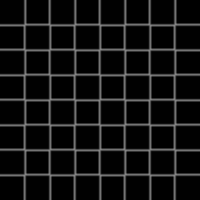
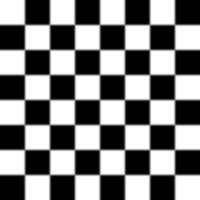
fix: wrong image for checkerboard

diff --git a/create_checkerboard.py b/create_checkerboard.py
@@ -1,0 +1,40 @@
+# Script to create a proper checkerboard image for camera calibration
+import cv2
+import numpy as np
+
+def create_checkerboard_image():
+    """
+    Create a proper checkerboard image suitable for camera calibration.
+    """
+    # Parameters for checkerboard
+    board_width = 8   # Number of internal corners horizontally
+    board_height = 6  # Number of internal corners vertically
+    square_size = 50  # Size of each square in pixels
+    
+    # Calculate image dimensions
+    img_width = (board_width + 1) * square_size
+    img_height = (board_height + 1) * square_size
+    
+    # Create the checkerboard image
+    checkerboard = np.zeros((img_height, img_width), dtype=np.uint8)
+    
+    # Fill the checkerboard pattern
+    for i in range(board_height + 1):
+        for j in range(board_width + 1):
+            if (i + j) % 2 == 0:
+                # White square
+                y_start = i * square_size
+                y_end = (i + 1) * square_size
+                x_start = j * square_size
+                x_end = (j + 1) * square_size
+                checkerboard[y_start:y_end, x_start:x_end] = 255
+    
+    return checkerboard
+
+if __name__ == "__main__":
+    # Create and save the checkerboard
+    checkerboard_img = create_checkerboard_image()
+    cv2.imwrite("checkerboard.png", checkerboard_img)
+    print("Checkerboard image created and saved as 'checkerboard.png'")
+    print(f"Image dimensions: {checkerboard_img.shape}")
+    print(f"Pattern size: 8x6 internal corners")

diff --git a/02_edge/edge.py b/02_edge/edge.py
@@ -89,7 +89,7 @@ def main():
     standard_images = [
         ("cameraman", data.camera()),
         ("coins", data.coins()),
-        ("checkerboard", (data.checkerboard() * 255).astype(np.uint8)),
+        ("checkerboard", data.checkerboard() * 255),
         ("astronaut", cv2.cvtColor(data.astronaut(), cv2.COLOR_RGB2GRAY))
     ]
 

diff --git a/01_filtering/filtering.py b/01_filtering/filtering.py
@@ -106,7 +106,7 @@ def main():
     standard_images = [
         ("cameraman", data.camera()),
         ("coins", data.coins()),
-        ("checkerboard", (data.checkerboard() * 255).astype(np.uint8)),
+        ("checkerboard", data.checkerboard()),
         ("astronaut", cv2.cvtColor(data.astronaut(), cv2.COLOR_RGB2GRAY))
     ]
 

diff --git a/03_featurepoints/featurepoints.py b/03_featurepoints/featurepoints.py
@@ -113,7 +113,7 @@ def main():
     standard_images = [
         ("cameraman", data.camera()),
         ("coins", data.coins()),
-        ("checkerboard", (data.checkerboard() * 255).astype(np.uint8)),
+        ("checkerboard", data.checkerboard()),
         ("astronaut", cv2.cvtColor(data.astronaut(), cv2.COLOR_RGB2GRAY))
     ]
 

diff --git a/04_geometry/geometry.py b/04_geometry/geometry.py
@@ -160,7 +160,7 @@ def main():
     standard_images = [
         ("cameraman", data.camera()),
         ("coins", data.coins()),
-        ("checkerboard", (data.checkerboard() * 255).astype(np.uint8)),
+        ("checkerboard", data.checkerboard()),
         ("astronaut", cv2.cvtColor(data.astronaut(), cv2.COLOR_RGB2GRAY))
     ]
 
